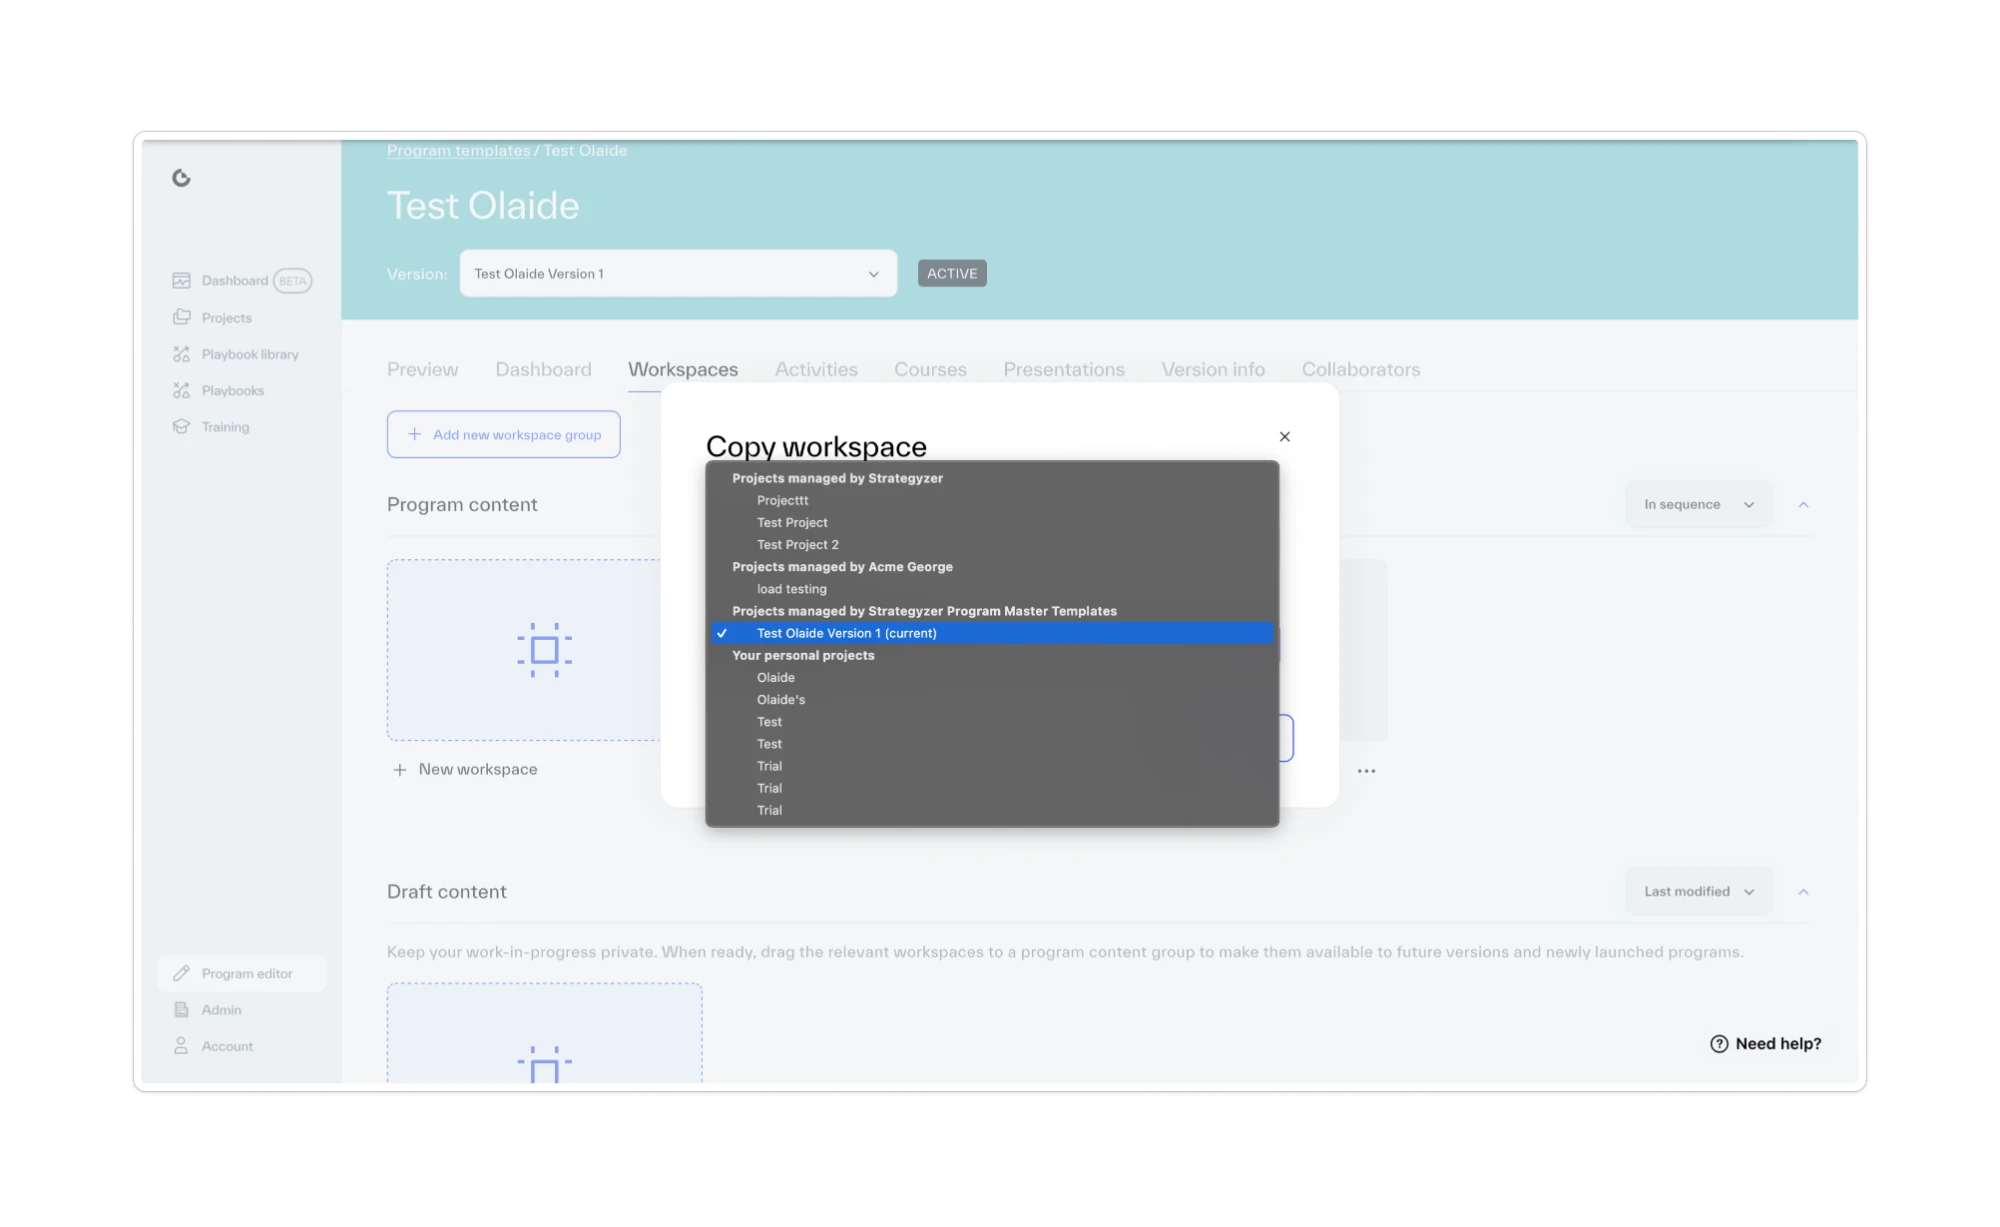
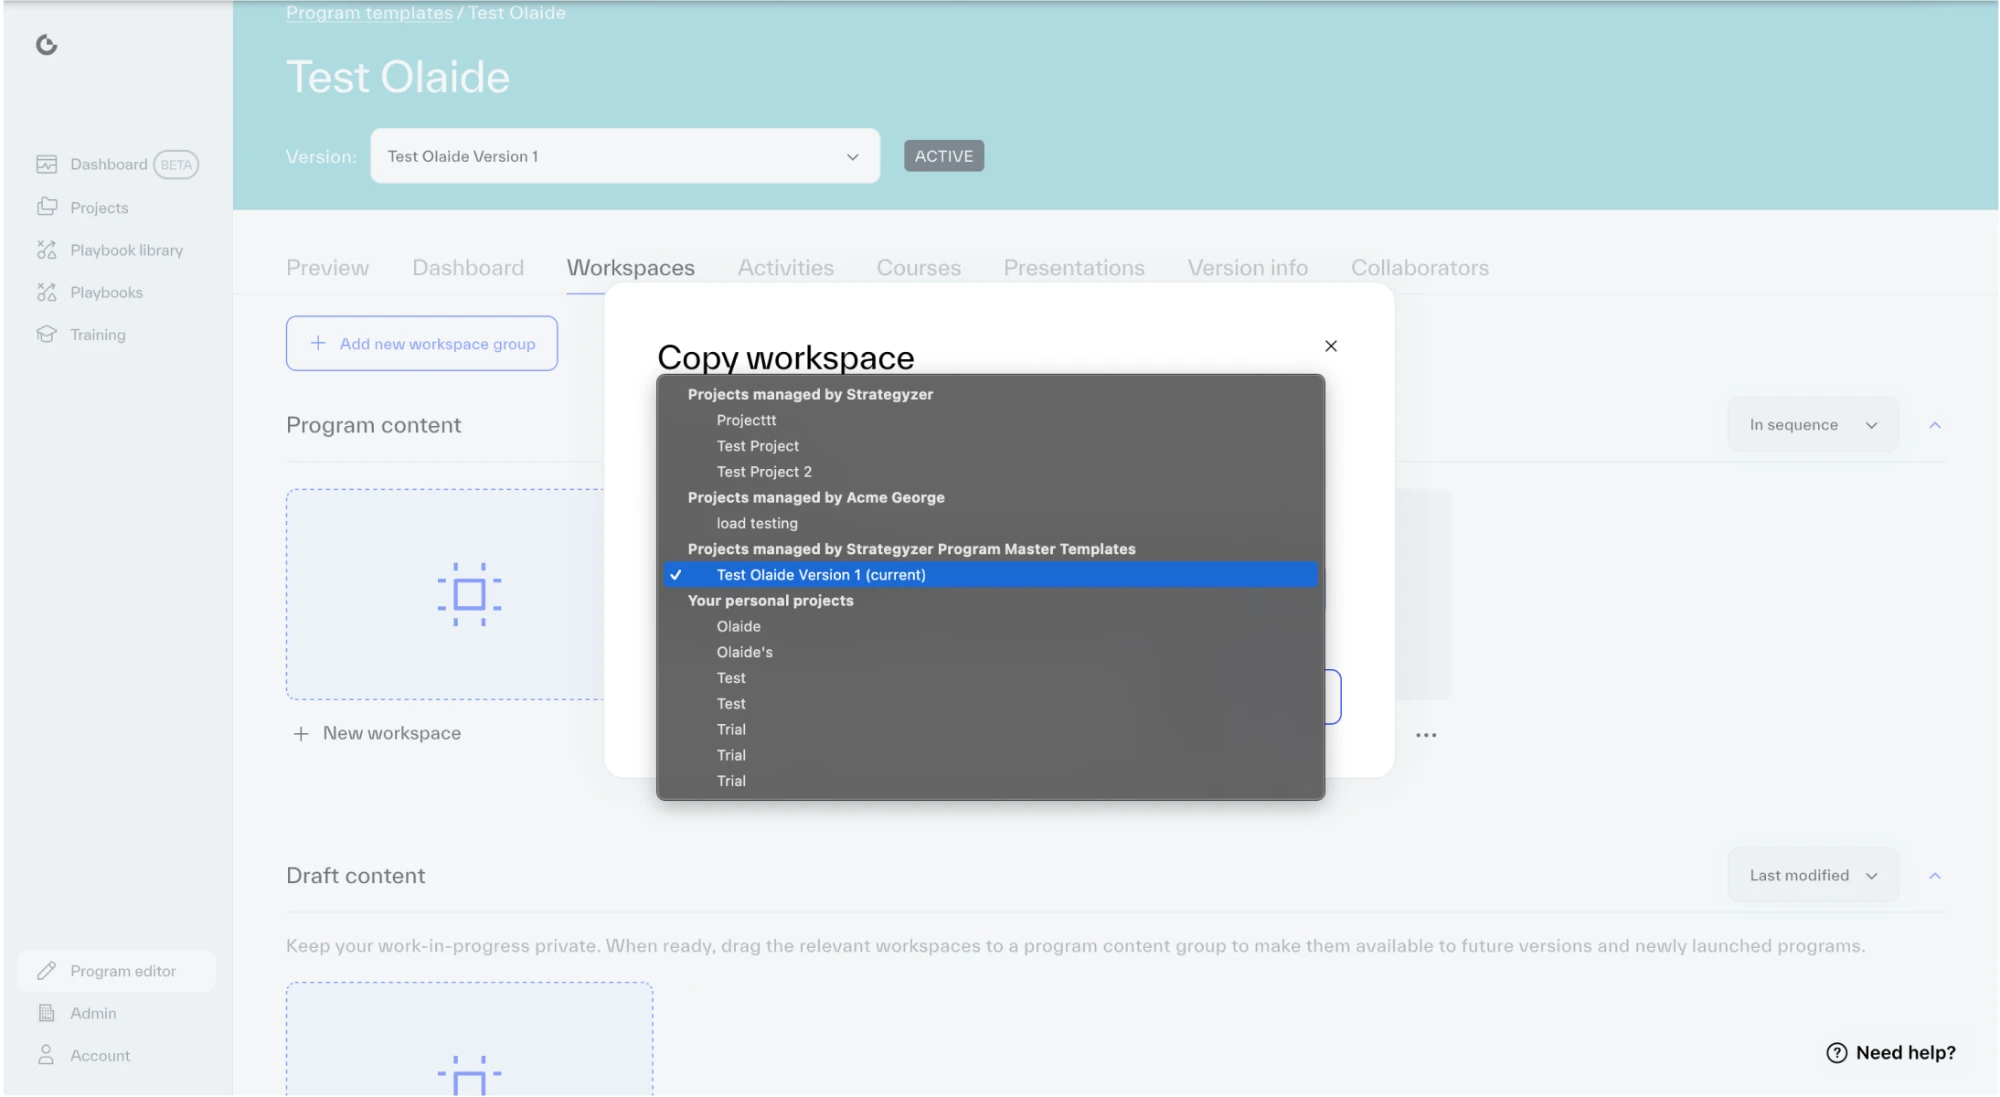
Use the tighter copy workspace before screenshot (06a)
Claude-Session: https://claude.ai/code/session_01Nab5DLJb7d55u8WkqBy9VY

diff --git a/case-studies/strategyzer-saas/index.html b/case-studies/strategyzer-saas/index.html
@@ -1104,7 +1104,7 @@
           <div class="vx-side"><div class="vx-k">Now</div><p>Pick the workspaces, search and pick the teams, and send them all in one action.</p></div>
         </div>
         <div class="layers">
-          <figure class="layer m"><div class="layer-k"><span>1</span>Before</div><div class="xp" data-xp><div class="xp-media framed before"><div class="xp-win"><div class="shot" data-zoom aria-label="View full size" style="--ar:1.6300"><img src="images/copy-before.webp" width="2000" height="1227" loading="lazy" alt="The old Copy workspace dialog in the program editor. A dark, unstyled system dropdown lists every project in one long scrolling list, grouped under headings like Projects managed by Strategyzer and Your personal projects, with one project ticked. There is no search."></div><div class="xp-layer"><span class="xp-hole" aria-hidden="true"></span><span class="xp-tag" aria-hidden="true"></span><button type="button" class="xp-pin" data-i="0" style="--px:34.6%;--py:38.6%;--k:0" aria-label="1: The browser’s menu, not ours." tabindex="-1">1</button><button type="button" class="xp-pin" data-i="1" style="--px:64.8%;--py:35.6%;--k:1" aria-label="2: No search." tabindex="-1">2</button><button type="button" class="xp-pin" data-i="2" style="--px:64.8%;--py:60.2%;--k:2" aria-label="3: Scroll, scroll, scroll." tabindex="-1">3</button><button type="button" class="xp-pin" data-i="3" style="--px:35.8%;--py:49.8%;--k:3" aria-label="4: Grouped by owner, not by need." tabindex="-1">4</button><button type="button" class="xp-pin" data-i="4" style="--px:64.8%;--py:51.7%;--k:4" aria-label="5: One project at a time." tabindex="-1">5</button></div></div><button type="button" class="xp-full" aria-label="View full size">⤢ Full size</button></div><div class="xp-side"><div class="xp-k"><span class="xp-cue" aria-hidden="true"></span><span class="hover-only">Hover a problem to see it in the design</span><span class="touch-only">Tap a problem to see it in the design</span></div><ol class="xp-list"><li><button type="button" class="xp-item" data-i="0" aria-pressed="false" data-r="35.2,37.5,28.8,30.0"><span class="n">1</span><span class="tx"><b>The browser’s menu, not ours.</b> The picker used the operating system’s default dropdown, with none of our design system, so it looked and behaved unlike the rest of the product.</span></button></li><li><button type="button" class="xp-item" data-i="1" aria-pressed="false" data-r="35.2,34.6,28.8,3.2"><span class="n">2</span><span class="tx"><b>No search.</b> There was no way to type a name. The only way to find a project was to scroll for it.</span></button></li><li><button type="button" class="xp-item" data-i="2" aria-pressed="false" data-r="35.2,52.9,28.8,14.6"><span class="n">3</span><span class="tx"><b>Scroll, scroll, scroll.</b> Every project in the account sat in one long list. With hundreds of projects, finding the right one could take ages.</span></button></li><li><button type="button" class="xp-item" data-i="3" aria-pressed="false" data-r="36.4,48.8,20.2,2.0"><span class="n">4</span><span class="tx"><b>Grouped by owner, not by need.</b> Projects were sorted by who manages them, so you had to know where a team’s project lived before you could find it.</span></button></li><li><button type="button" class="xp-item" data-i="4" aria-pressed="false" data-r="35.5,50.7,28.4,1.9"><span class="n">5</span><span class="tx"><b>One project at a time.</b> Only one destination could be picked, so the same workspace had to be copied again for every team.</span></button></li></ol><button type="button" class="xp-reset" hidden>Show the full design</button></div></div></figure>
+          <figure class="layer m"><div class="layer-k"><span>1</span>Before</div><div class="xp" data-xp><div class="xp-media framed before"><div class="xp-win"><div class="shot" data-zoom aria-label="View full size" style="--ar:1.8232"><img src="images/copy-before.webp" width="2000" height="1097" loading="lazy" alt="The old Copy workspace dialog in the program editor. A dark, unstyled system dropdown lists every project in one long scrolling list, grouped under headings like Projects managed by Strategyzer and Your personal projects, with one project ticked. There is no search."></div><div class="xp-layer"><span class="xp-hole" aria-hidden="true"></span><span class="xp-tag" aria-hidden="true"></span><button type="button" class="xp-pin" data-i="0" style="--px:32.2%;--py:35.3%;--k:0" aria-label="1: The browser’s menu, not ours." tabindex="-1">1</button><button type="button" class="xp-pin" data-i="1" style="--px:66.9%;--py:31.6%;--k:1" aria-label="2: No search." tabindex="-1">2</button><button type="button" class="xp-pin" data-i="2" style="--px:66.9%;--py:63.0%;--k:2" aria-label="3: Scroll, scroll, scroll." tabindex="-1">3</button><button type="button" class="xp-pin" data-i="3" style="--px:33.6%;--py:50.1%;--k:3" aria-label="4: Grouped by owner, not by need." tabindex="-1">4</button><button type="button" class="xp-pin" data-i="4" style="--px:66.9%;--py:52.3%;--k:4" aria-label="5: One project at a time." tabindex="-1">5</button></div></div><button type="button" class="xp-full" aria-label="View full size">⤢ Full size</button></div><div class="xp-side"><div class="xp-k"><span class="xp-cue" aria-hidden="true"></span><span class="hover-only">Hover a problem to see it in the design</span><span class="touch-only">Tap a problem to see it in the design</span></div><ol class="xp-list"><li><button type="button" class="xp-item" data-i="0" aria-pressed="false" data-r="32.8,34.2,33.5,38.7"><span class="n">1</span><span class="tx"><b>The browser’s menu, not ours.</b> The picker used the operating system’s default dropdown, with none of our design system, so it looked and behaved unlike the rest of the product.</span></button></li><li><button type="button" class="xp-item" data-i="1" aria-pressed="false" data-r="32.8,30.5,33.5,3.7"><span class="n">2</span><span class="tx"><b>No search.</b> There was no way to type a name. The only way to find a project was to scroll for it.</span></button></li><li><button type="button" class="xp-item" data-i="2" aria-pressed="false" data-r="32.8,53.8,33.5,19.1"><span class="n">3</span><span class="tx"><b>Scroll, scroll, scroll.</b> Every project in the account sat in one long list. With hundreds of projects, finding the right one could take ages.</span></button></li><li><button type="button" class="xp-item" data-i="3" aria-pressed="false" data-r="34.2,49.0,23.0,2.2"><span class="n">4</span><span class="tx"><b>Grouped by owner, not by need.</b> Projects were sorted by who manages them, so you had to know where a team’s project lived before you could find it.</span></button></li><li><button type="button" class="xp-item" data-i="4" aria-pressed="false" data-r="33.2,51.2,32.7,2.3"><span class="n">5</span><span class="tx"><b>One project at a time.</b> Only one destination could be picked, so the same workspace had to be copied again for every team.</span></button></li></ol><button type="button" class="xp-reset" hidden>Show the full design</button></div></div></figure>
           <figure class="layer m"><div class="layer-k"><span>2</span>After</div><div class="slot"><b>06b</b><span>Selecting workspaces, searching and picking teams, and sending them all at once</span><i>Screen recording</i></div></figure>
           <figure class="layer steps" data-steps>
             <div class="layer-k"><span>3</span>The designs<em>Click a tab to see each screen and the decisions behind it</em></div>

diff --git a/case-studies/strategyzer-saas/src/sections.html b/case-studies/strategyzer-saas/src/sections.html
@@ -141,7 +141,7 @@
           <div class="vx-side"><div class="vx-k">Now</div><p>Pick the workspaces, search and pick the teams, and send them all in one action.</p></div>
         </div>
         <div class="layers">
-          <figure class="layer m"><div class="layer-k"><span>1</span>Before</div><div class="xp" data-xp><div class="xp-media framed before"><div class="xp-win"><div class="shot" data-zoom aria-label="View full size" style="--ar:1.6300"><img src="images/copy-before.webp" width="2000" height="1227" loading="lazy" alt="The old Copy workspace dialog in the program editor. A dark, unstyled system dropdown lists every project in one long scrolling list, grouped under headings like Projects managed by Strategyzer and Your personal projects, with one project ticked. There is no search."></div><div class="xp-layer"><span class="xp-hole" aria-hidden="true"></span><span class="xp-tag" aria-hidden="true"></span><button type="button" class="xp-pin" data-i="0" style="--px:34.6%;--py:38.6%;--k:0" aria-label="1: The browser’s menu, not ours." tabindex="-1">1</button><button type="button" class="xp-pin" data-i="1" style="--px:64.8%;--py:35.6%;--k:1" aria-label="2: No search." tabindex="-1">2</button><button type="button" class="xp-pin" data-i="2" style="--px:64.8%;--py:60.2%;--k:2" aria-label="3: Scroll, scroll, scroll." tabindex="-1">3</button><button type="button" class="xp-pin" data-i="3" style="--px:35.8%;--py:49.8%;--k:3" aria-label="4: Grouped by owner, not by need." tabindex="-1">4</button><button type="button" class="xp-pin" data-i="4" style="--px:64.8%;--py:51.7%;--k:4" aria-label="5: One project at a time." tabindex="-1">5</button></div></div><button type="button" class="xp-full" aria-label="View full size">⤢ Full size</button></div><div class="xp-side"><div class="xp-k"><span class="xp-cue" aria-hidden="true"></span><span class="hover-only">Hover a problem to see it in the design</span><span class="touch-only">Tap a problem to see it in the design</span></div><ol class="xp-list"><li><button type="button" class="xp-item" data-i="0" aria-pressed="false" data-r="35.2,37.5,28.8,30.0"><span class="n">1</span><span class="tx"><b>The browser’s menu, not ours.</b> The picker used the operating system’s default dropdown, with none of our design system, so it looked and behaved unlike the rest of the product.</span></button></li><li><button type="button" class="xp-item" data-i="1" aria-pressed="false" data-r="35.2,34.6,28.8,3.2"><span class="n">2</span><span class="tx"><b>No search.</b> There was no way to type a name. The only way to find a project was to scroll for it.</span></button></li><li><button type="button" class="xp-item" data-i="2" aria-pressed="false" data-r="35.2,52.9,28.8,14.6"><span class="n">3</span><span class="tx"><b>Scroll, scroll, scroll.</b> Every project in the account sat in one long list. With hundreds of projects, finding the right one could take ages.</span></button></li><li><button type="button" class="xp-item" data-i="3" aria-pressed="false" data-r="36.4,48.8,20.2,2.0"><span class="n">4</span><span class="tx"><b>Grouped by owner, not by need.</b> Projects were sorted by who manages them, so you had to know where a team’s project lived before you could find it.</span></button></li><li><button type="button" class="xp-item" data-i="4" aria-pressed="false" data-r="35.5,50.7,28.4,1.9"><span class="n">5</span><span class="tx"><b>One project at a time.</b> Only one destination could be picked, so the same workspace had to be copied again for every team.</span></button></li></ol><button type="button" class="xp-reset" hidden>Show the full design</button></div></div></figure>
+          <figure class="layer m"><div class="layer-k"><span>1</span>Before</div><div class="xp" data-xp><div class="xp-media framed before"><div class="xp-win"><div class="shot" data-zoom aria-label="View full size" style="--ar:1.8232"><img src="images/copy-before.webp" width="2000" height="1097" loading="lazy" alt="The old Copy workspace dialog in the program editor. A dark, unstyled system dropdown lists every project in one long scrolling list, grouped under headings like Projects managed by Strategyzer and Your personal projects, with one project ticked. There is no search."></div><div class="xp-layer"><span class="xp-hole" aria-hidden="true"></span><span class="xp-tag" aria-hidden="true"></span><button type="button" class="xp-pin" data-i="0" style="--px:32.2%;--py:35.3%;--k:0" aria-label="1: The browser’s menu, not ours." tabindex="-1">1</button><button type="button" class="xp-pin" data-i="1" style="--px:66.9%;--py:31.6%;--k:1" aria-label="2: No search." tabindex="-1">2</button><button type="button" class="xp-pin" data-i="2" style="--px:66.9%;--py:63.0%;--k:2" aria-label="3: Scroll, scroll, scroll." tabindex="-1">3</button><button type="button" class="xp-pin" data-i="3" style="--px:33.6%;--py:50.1%;--k:3" aria-label="4: Grouped by owner, not by need." tabindex="-1">4</button><button type="button" class="xp-pin" data-i="4" style="--px:66.9%;--py:52.3%;--k:4" aria-label="5: One project at a time." tabindex="-1">5</button></div></div><button type="button" class="xp-full" aria-label="View full size">⤢ Full size</button></div><div class="xp-side"><div class="xp-k"><span class="xp-cue" aria-hidden="true"></span><span class="hover-only">Hover a problem to see it in the design</span><span class="touch-only">Tap a problem to see it in the design</span></div><ol class="xp-list"><li><button type="button" class="xp-item" data-i="0" aria-pressed="false" data-r="32.8,34.2,33.5,38.7"><span class="n">1</span><span class="tx"><b>The browser’s menu, not ours.</b> The picker used the operating system’s default dropdown, with none of our design system, so it looked and behaved unlike the rest of the product.</span></button></li><li><button type="button" class="xp-item" data-i="1" aria-pressed="false" data-r="32.8,30.5,33.5,3.7"><span class="n">2</span><span class="tx"><b>No search.</b> There was no way to type a name. The only way to find a project was to scroll for it.</span></button></li><li><button type="button" class="xp-item" data-i="2" aria-pressed="false" data-r="32.8,53.8,33.5,19.1"><span class="n">3</span><span class="tx"><b>Scroll, scroll, scroll.</b> Every project in the account sat in one long list. With hundreds of projects, finding the right one could take ages.</span></button></li><li><button type="button" class="xp-item" data-i="3" aria-pressed="false" data-r="34.2,49.0,23.0,2.2"><span class="n">4</span><span class="tx"><b>Grouped by owner, not by need.</b> Projects were sorted by who manages them, so you had to know where a team’s project lived before you could find it.</span></button></li><li><button type="button" class="xp-item" data-i="4" aria-pressed="false" data-r="33.2,51.2,32.7,2.3"><span class="n">5</span><span class="tx"><b>One project at a time.</b> Only one destination could be picked, so the same workspace had to be copied again for every team.</span></button></li></ol><button type="button" class="xp-reset" hidden>Show the full design</button></div></div></figure>
           <figure class="layer m"><div class="layer-k"><span>2</span>After</div><div class="slot"><b>06b</b><span>Selecting workspaces, searching and picking teams, and sending them all at once</span><i>Screen recording</i></div></figure>
           <figure class="layer steps" data-steps>
             <div class="layer-k"><span>3</span>The designs<em>Click a tab to see each screen and the decisions behind it</em></div>
